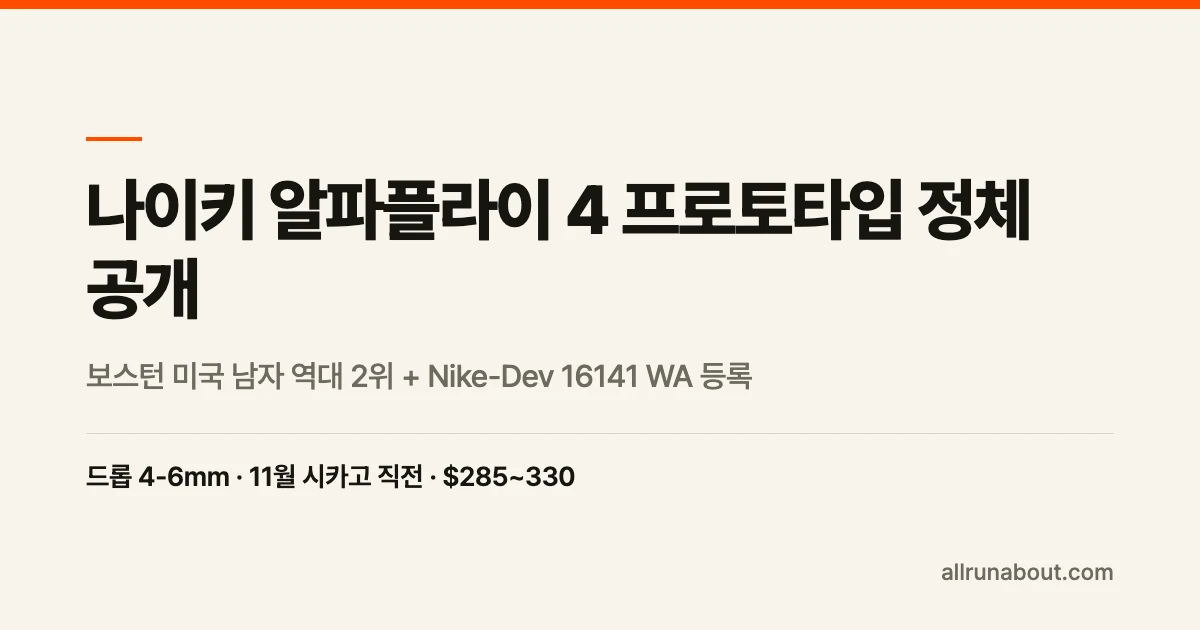
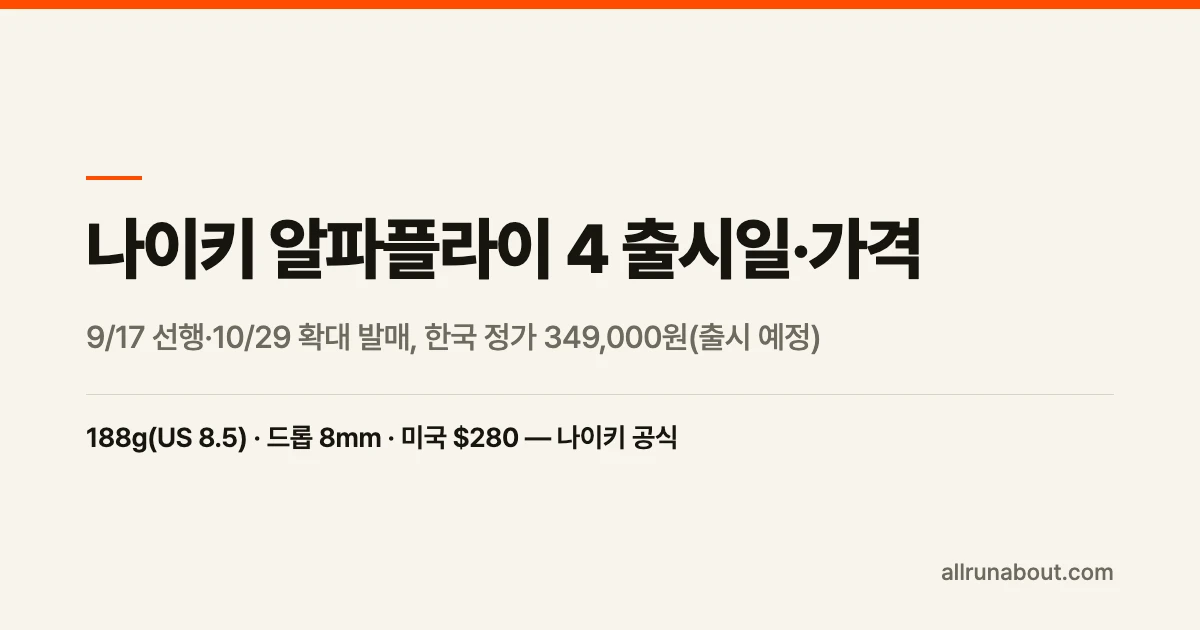
fix(followup): 알파플라이 4 한국 정가 349,000원(출시 예정) 반영 + 세션 알림 7건 처리 기록
나이키 코리아 남성 IU4686-002·여성 IZ9609-002 상품 페이지에 349,000원 '출시 예정·알림 받기'(출시일 미표시, 2026-10-23 확인).
- 프로토타입 글: seoTitle·title·description·상단 현황 박스('한국 미정' → 한국 정가 349,000원·출시 예정), 썸네일 데이터 줄을 5월 예측값에서 공식 확정값으로
- 공식 스펙 글: 한국 정가 표·요약·'아직 확정되지 않은 것'·FAQ 2개·출처 줄 — 미국과 달리 한국 정가는 알파플라이 3(339,000)보다 1만원 높다는 점 명시
- 나이키 계급도 글: 레이싱 선택지 절·표
- nike-alphafly-4.ts price 349000(공식몰 정가) · description·editorComment·detailedSpecs.price
- 프로토타입 글 표의 베이퍼플라이 4 '약 35만원' → 30.9만원(DB 309,000)
.omc/todo-estimates.md: 기한 지난 6행 ✅ + 측정 결과(GSC 4건·러닝카드 카드 판정·제부도 재확인), 후속 3행(10/29 알파플라이 출시일·11/6 가격대 추천 글 본문·11/7 제부도 최종 안내).
릴스 행은 다른 세션이 15:08 에 이미 처리

Changed region(s): [[0.0617, 0.2714, 0.8633, 0.6333], [0.0617, 0.6635, 0.5858, 0.7841], [0.0617, 0.2111, 0.1233, 0.2413]]

diff --git a/src/lib/data/blog/posts/2026-09.ts b/src/lib/data/blog/posts/2026-09.ts
@@ -1987,6 +1987,7 @@ export const posts_2026_09: BlogPost[] = [
     thumbnail: '/images/blog/nike-alphafly-4-official-specs-2026.webp',
     author: '산초 에디터',
     publishedAt: '2026-09-17',
+    updatedAt: '2026-10-23',
     category: 'news' as const,
     readingTime: 9,
     tags: [
@@ -2004,7 +2005,7 @@ export const posts_2026_09: BlogPost[] = [
   <ul>
     <li><strong>9월 17일 공식 발표 + 같은 날 한정 선행 발매, 확대 발매는 10월 29일입니다.</strong> 글로벌 정가는 나이키 제품 페이지 기준 <strong>$280</strong>으로, 알파플라이 3의 현재 정가 $295보다 오히려 $15 쌉니다</li>
     <li><strong>무게는 "188g"이지만 30g 가벼워진 게 아닙니다.</strong> 나이키가 알파플라이 4는 US 8.5로, 알파플라이 3은 US 10으로 무게를 적어둬서 <strong>두 숫자의 기준 사이즈가 다릅니다.</strong> 같은 US 10으로 맞추면 218g → 208g, 차이는 <strong>10g</strong>입니다</li>
-    <li><strong>한국 출시일과 한국 정가는 오늘 기준 아직 없습니다.</strong> 나이키 코리아 레이싱화 목록에 알파플라이 4는 올라오지 않았고, 알파플라이 3만 339,000원(현재 15% 할인 288,100원)으로 팔리고 있습니다</li>
+    <li><strong>한국 정가는 349,000원으로 공개됐고, 출시일은 아직 없습니다(2026년 10월 23일 확인).</strong> 나이키 코리아 상품 페이지에 남녀 모두 "출시 예정·알림 받기"로 올라와 있습니다. 미국 정가는 알파플라이 3보다 $15 싸지만, 한국 정가는 알파플라이 3(339,000원)보다 1만원 높습니다</li>
   </ul>
 </div>
 
@@ -2012,7 +2013,7 @@ export const posts_2026_09: BlogPost[] = [
   <span class="callout-icon">👟</span>
   <div class="callout-body">
     <p class="callout-title">한 줄 결론</p>
-    <p><strong>기다릴 값은 있지만, 오늘 당장 결정할 일은 없습니다.</strong> 한국 정가가 안 나온 상태라 "얼마를 아끼는 것인지" 계산이 불가능합니다. 가을 대회가 10월 안에 있다면 <a href="/shoes/nike-alphafly-3">알파플라이 3</a> 할인분이 현실적인 선택이고, 11월 이후 대회라면 한국 발매 공지를 기다리는 쪽이 낫습니다. 5월에 프로토타입만 보고 정리했던 <a href="/blog/2026-nike-alphafly-4-prototype">출시일·스펙 예측 글</a>은 이번 발표로 여러 항목이 뒤집혔는데, 무엇이 어떻게 틀렸는지도 아래에 그대로 적었습니다.</p>
+    <p><strong>기다릴 값은 있지만, 오늘 당장 결정할 일은 없습니다.</strong> 한국 정가는 349,000원으로 알파플라이 3 정가(339,000원)보다 1만원 높아, 미국처럼 "신형이 더 싸다"는 계산은 한국에서 성립하지 않습니다. 가을 대회가 10월 안에 있다면 <a href="/shoes/nike-alphafly-3">알파플라이 3</a> 할인분이 현실적인 선택이고, 11월 이후 대회라면 한국 발매 공지를 기다리는 쪽이 낫습니다. 5월에 프로토타입만 보고 정리했던 <a href="/blog/2026-nike-alphafly-4-prototype">출시일·스펙 예측 글</a>은 이번 발표로 여러 항목이 뒤집혔는데, 무엇이 어떻게 틀렸는지도 아래에 그대로 적었습니다.</p>
   </div>
 </div>
 
@@ -2108,12 +2109,12 @@ export const posts_2026_09: BlogPost[] = [
     <tr><th>모델</th><th>미국 정가</th><th>한국 정가</th></tr>
   </thead>
   <tbody>
-    <tr><td><strong>알파플라이 4</strong></td><td><strong>$280</strong></td><td><strong>미공개</strong></td></tr>
+    <tr><td><strong>알파플라이 4</strong></td><td><strong>$280</strong></td><td><strong>349,000원</strong> (출시 예정, 2026-10-23 확인)</td></tr>
     <tr><td><a href="/shoes/nike-alphafly-3">알파플라이 3</a></td><td>$295 (현재 할인가 $221.97)</td><td>339,000원 (현재 15% 할인 288,100원)</td></tr>
   </tbody>
 </table>
 
-<p>세대가 올라가면서 미국 정가가 $15 내려갔습니다. 슈퍼슈즈 가격이 계속 오르기만 하던 흐름을 생각하면 드문 방향입니다. 다만 <strong>이것이 한국 가격에 그대로 반영된다는 근거는 없습니다.</strong> 한국 정가는 환율·수입 구조·브랜드 정책이 따로 작용하고, 알파플라이 3만 봐도 미국 $295와 한국 339,000원이 단순 환산으로 맞아떨어지지 않습니다.</p>
+<p>세대가 올라가면서 미국 정가가 $15 내려갔습니다. 슈퍼슈즈 가격이 계속 오르기만 하던 흐름을 생각하면 드문 방향입니다. 다만 <strong>한국은 반대로 나왔습니다.</strong> 10월 23일 나이키 코리아에 공개된 한국 정가는 349,000원으로 알파플라이 3(339,000원)보다 1만원 높습니다. 한국 정가는 환율·수입 구조·브랜드 정책이 따로 작용하고, 알파플라이 3만 봐도 미국 $295와 한국 339,000원이 단순 환산으로 맞아떨어지지 않습니다.</p>
 
 <h2>5월에 우리가 예측했던 것 vs 오늘 확정된 것</h2>
 
@@ -2141,10 +2142,10 @@ export const posts_2026_09: BlogPost[] = [
 <div class="callout warning">
   <span class="callout-icon">⚠</span>
   <div class="callout-body">
-    <p class="callout-title">아직 확정되지 않은 것 (2026년 9월 17일 기준)</p>
+    <p class="callout-title">아직 확정되지 않은 것 (2026년 10월 23일 갱신)</p>
     <ul>
-      <li><strong>한국 출시일</strong> — 나이키 코리아 로드 레이싱화 목록에 알파플라이 4가 아직 없습니다. 국내 보도는 "다음 달"까지만 전하고 있어, 글로벌 확대 발매일인 10월 29일과 맞물릴 가능성이 있으나 <strong>(추정)</strong>입니다</li>
-      <li><strong>한국 정가</strong> — 공식 수치 없음. 미국 $280을 단순 환산해 계산하지 마세요</li>
+      <li><strong>한국 출시일</strong> — 나이키 코리아 상품 페이지에 "출시 예정"으로 올라왔지만 날짜는 표시되지 않았습니다. 글로벌 확대 발매일인 10월 29일과 맞물릴 가능성이 있으나 <strong>(추정)</strong>입니다</li>
+      <li><strong>한국 정가</strong> — 10월 23일 확정: 349,000원(남성 IU4686-002·여성 IZ9609-002 상품 페이지). 미국 $280 환산값과는 무관합니다</li>
       <li><strong>실측 스펙</strong> — 절단 랩 데이터 없음. 스택 39/31mm는 브랜드 경로 수치입니다</li>
       <li><strong>토박스 폭</strong> — 알파플라이 3은 실측 토박스 93.3mm(엄지 쪽 75.3mm)에 와이드 옵션이 없었습니다. 알파플라이 4의 Atomknit 어퍼가 이 폭을 바꿨는지는 실측 전까지 알 수 없어, <strong>발볼이 넓은 러너는 착화 없이 온라인 구매를 권하지 않습니다</strong></li>
     </ul>
@@ -2155,7 +2156,7 @@ export const posts_2026_09: BlogPost[] = [
 
 <h2>지금 살 신발을 고른다면</h2>
 
-<p>알파플라이 4의 한국 가격이 안 나온 지금, 비교 가능한 선택지는 이미 한국에서 팔리는 레이싱화들입니다.</p>
+<p>알파플라이 4가 한국에서 아직 출시 전인 지금(정가 349,000원 공개), 바로 살 수 있는 선택지는 이미 한국에서 팔리는 레이싱화들입니다.</p>
 
 <table>
   <thead>
@@ -2173,13 +2174,13 @@ export const posts_2026_09: BlogPost[] = [
   <h2>자주 묻는 질문</h2>
 
   <h3>Q. 알파플라이 4, 한국에서 9월 17일에 살 수 있나요?</h3>
-  <p>아닙니다. 9월 17일 선행 발매는 나이키 글로벌 사이트의 한정 수량 판매이고, 나이키 코리아 레이싱화 목록에는 오늘 기준 알파플라이 4가 올라오지 않았습니다. 국내 보도도 "다음 달"까지만 전하고 있습니다.</p>
+  <p>아닙니다. 9월 17일 선행 발매는 나이키 글로벌 사이트의 한정 수량 판매였습니다. 나이키 코리아에는 10월 23일 기준 정가 349,000원 "출시 예정"으로 올라와 있고, 출시일은 아직 표시되지 않았습니다.</p>
 
   <h3>Q. 188g이면 역대 알파플라이 중 제일 가벼운 건가요?</h3>
   <p>가장 가벼운 알파플라이가 맞지만, 188g이라는 숫자 자체를 다른 신발과 바로 비교하면 안 됩니다. 이 값은 남성 US 8.5 기준이고, 대부분의 신발 스펙은 US 9 또는 US 10으로 적혀 있습니다. 같은 US 10으로 맞추면 알파플라이 4는 208g입니다.</p>
 
   <h3>Q. 알파플라이 3을 지금 할인가에 사는 게 나을까요?</h3>
-  <p>10월 안에 대회가 있다면 그렇습니다. 알파플라이 4의 한국 정가가 안 나온 상태라 "기다려서 얼마를 더 내야 하는지"를 계산할 수 없고, 한국 발매 직후에는 사이즈·컬러가 제한되는 경우가 많습니다. 반대로 11월 이후 대회이고 최신 모델을 원한다면 기다릴 시간은 충분합니다.</p>
+  <p>10월 안에 대회가 있다면 그렇습니다. 알파플라이 4 한국 정가는 349,000원이라 알파플라이 3 할인가(9월 17일 기준 288,100원)보다 약 6만원 비싸고, 한국 발매 직후에는 사이즈·컬러가 제한되는 경우가 많습니다. 반대로 11월 이후 대회이고 최신 모델을 원한다면 기다릴 시간은 충분합니다.</p>
 
   <h3>Q. 에너지 리턴 10% 향상은 믿을 만한 수치인가요?</h3>
   <p>나이키 자체 실험실 값이고, 외부 기관이 같은 조건으로 재현한 결과는 아직 없습니다. 참고로 알파플라이 3의 외부 랩 실측 에너지 리턴은 힐 74.9% / 전족부 73.9%였는데, 나이키의 10%가 이 값을 기준으로 한 것인지는 보도자료에 적혀 있지 않습니다. 절단 실측이 공개되면 이 글을 갱신하겠습니다.</p>
@@ -2188,7 +2189,7 @@ export const posts_2026_09: BlogPost[] = [
   <p>지금은 답할 수 없습니다. 알파플라이 3은 외부 랩 실측 토박스가 가장 넓은 지점 93.3mm, 엄지 쪽 75.3mm였고 와이드 옵션이 없었습니다. 알파플라이 4는 어퍼가 Atomknit으로 바뀌었지만 폭 실측이 없어, 발볼이 넓다면 매장 착화 후 결정하는 편이 안전합니다.</p>
 </div>
 
-<p><small>출처: 나이키 뉴스룸 공식 보도자료(Nike Alphafly 4) · 나이키 제품 페이지 알파플라이 4(스타일 IU4686-002, $280·188g/US 8.5) 및 알파플라이 3($295·218g/US 10) · 나이키 코리아 로드 레이싱화 목록(알파플라이 3 339,000원, 2026-09-17 확인) · 헤럴드경제 2026-09-17 보도(나이키 브렛 스쿨미스터 부사장·에밀리 파리나 생체역학 연구원 인용) · RunRepeat 알파플라이 3 절단 랩 데이터(힐 38.1mm·전족 29.6mm·드롭 8.5mm·201g·에너지 리턴 74.9%/73.9%·토박스 93.3mm) · Marathon Handbook(미디어 브리핑 기반 스택 39/31mm·US 10 208g). 가격·출시일은 2026년 9월 17일 확인 기준이며 한국 출시 정보는 나이키 코리아 공지로 다시 확인하세요.</small></p>
+<p><small>출처: 나이키 뉴스룸 공식 보도자료(Nike Alphafly 4) · 나이키 제품 페이지 알파플라이 4(스타일 IU4686-002, $280·188g/US 8.5) 및 알파플라이 3($295·218g/US 10) · 나이키 코리아 로드 레이싱화 목록(알파플라이 3 339,000원, 2026-09-17 확인) · 헤럴드경제 2026-09-17 보도(나이키 브렛 스쿨미스터 부사장·에밀리 파리나 생체역학 연구원 인용) · RunRepeat 알파플라이 3 절단 랩 데이터(힐 38.1mm·전족 29.6mm·드롭 8.5mm·201g·에너지 리턴 74.9%/73.9%·토박스 93.3mm) · Marathon Handbook(미디어 브리핑 기반 스택 39/31mm·US 10 208g) · 나이키 코리아 알파플라이 4 남성(IU4686-002)·여성(IZ9609-002) 상품 페이지(349,000원·출시 예정, 2026-10-23 확인). 글로벌 가격·출시일은 2026년 9월 17일, 한국 정가는 10월 23일 확인 기준이며 한국 출시일은 나이키 코리아 공지로 다시 확인하세요.</small></p>
 `,
   },
   {

diff --git a/src/lib/data/blog/posts/2026-05.ts b/src/lib/data/blog/posts/2026-05.ts
@@ -6953,13 +6953,13 @@ export const posts_2026_05: BlogPost[] = [
   {
     id: '2026-nike-alphafly-4-prototype',
     slug: '2026-nike-alphafly-4-prototype',
-    seoTitle: '나이키 알파플라이 4 출시일·가격 — 10월 29일 확대 발매, 한국 미정',
-    title: '나이키 알파플라이 4 출시일·가격 | 9/17 선행·10/29 확대 발매, 한국은 미정 — 프로토타입 예측과의 대조',
-    description: '알파플라이 4는 2026년 9월 17일 공식 발표와 함께 한정 선행 발매됐고 확대 발매는 10월 29일, 글로벌 정가는 $280입니다. 한국은 10월 6일 기준 나이키 코리아에 아직 없습니다. 나이키는 9월 30일 알파플라이 4·에이펙스(2027년 1월)·스우시플라이(2027년 2월 중국·봄 글로벌)를 "위계가 아닌 선택지"로 묶어 발표했습니다. 아래는 5월 프로토타입 단계의 예측이 공식 발표와 어떻게 갈렸는지의 기록이며, 확정 스펙은 별도 글로 안내합니다.',
+    seoTitle: '나이키 알파플라이 4 출시일·가격 — 한국 정가 349,000원 공개, 10월 29일 확대 발매',
+    title: '나이키 알파플라이 4 출시일·가격 | 9/17 선행·10/29 확대 발매, 한국 정가 349,000원(출시 예정) — 프로토타입 예측과의 대조',
+    description: '알파플라이 4는 2026년 9월 17일 공식 발표와 함께 한정 선행 발매됐고 확대 발매는 10월 29일, 글로벌 정가는 $280입니다. 한국은 10월 23일 나이키 코리아에 정가 349,000원 "출시 예정"으로 올라왔고 출시일은 아직 표시되지 않았습니다. 나이키는 9월 30일 알파플라이 4·에이펙스(2027년 1월)·스우시플라이(2027년 2월 중국·봄 글로벌)를 "위계가 아닌 선택지"로 묶어 발표했습니다. 아래는 5월 프로토타입 단계의 예측이 공식 발표와 어떻게 갈렸는지의 기록이며, 확정 스펙은 별도 글로 안내합니다.',
     thumbnail: '/images/blog/2026-nike-alphafly-4-prototype.webp',
     author: '산초 에디터',
     publishedAt: '2026-05-12',
-    updatedAt: '2026-10-06',
+    updatedAt: '2026-10-23',
     category: 'news' as const,
     readingTime: 8,
     tags: ['나이키', 'Nike', 'AlphaFly 4', '알파플라이 4', '슈퍼슈즈', '카본화', '보스턴 마라톤', 'ZoomX', '러닝화 발매'],
@@ -6967,8 +6967,8 @@ export const posts_2026_05: BlogPost[] = [
 <div class="callout info">
   <span class="callout-icon">📌</span>
   <div class="callout-body">
-    <p class="callout-title">지금 기준 정리 (2026년 10월 6일)</p>
-    <p><strong>알파플라이 4는 9월 17일 공식 발표와 함께 한정 선행 발매됐고, 확대 발매는 10월 29일, 글로벌 정가는 $280입니다.</strong> 한국은 10월 6일 나이키 코리아 검색에 아직 올라오지 않았습니다(같은 검색에서 알파플라이 3은 판매 중). 나이키는 9월 30일 알파플라이 4·에이펙스(2027년 1월)·스우시플라이(2027년 2월 중국·봄 글로벌)를 "레이스 데이 시스템"으로 묶어 발표하면서, 레이싱화를 <strong>위계가 아니라 선택지</strong>로 설계했다고 밝혔습니다. 확정 스펙은 <a href="/blog/nike-alphafly-4-official-specs-2026">알파플라이 4 공식 스펙 정리</a>에, 에이펙스는 <a href="/blog/nike-apex-announcement-super-shoe-baseline-2026">에이펙스 공개 글</a>에 있습니다. 아래는 5월 프로토타입 단계에서 쓴 예측 기록입니다.</p>
+    <p class="callout-title">지금 기준 정리 (2026년 10월 23일)</p>
+    <p><strong>알파플라이 4는 9월 17일 공식 발표와 함께 한정 선행 발매됐고, 확대 발매는 10월 29일, 글로벌 정가는 $280입니다.</strong> 한국은 10월 23일 나이키 코리아에 남녀 모두 <strong>정가 349,000원 "출시 예정"</strong>으로 올라왔고 출시일은 아직 표시되지 않았습니다. 미국과 달리 한국 정가는 알파플라이 3(339,000원)보다 1만원 높습니다. 나이키는 9월 30일 알파플라이 4·에이펙스(2027년 1월)·스우시플라이(2027년 2월 중국·봄 글로벌)를 "레이스 데이 시스템"으로 묶어 발표하면서, 레이싱화를 <strong>위계가 아니라 선택지</strong>로 설계했다고 밝혔습니다. 확정 스펙은 <a href="/blog/nike-alphafly-4-official-specs-2026">알파플라이 4 공식 스펙 정리</a>에, 에이펙스는 <a href="/blog/nike-apex-announcement-super-shoe-baseline-2026">에이펙스 공개 글</a>에 있습니다. 아래는 5월 프로토타입 단계에서 쓴 예측 기록입니다.</p>
   </div>
 </div>
 
@@ -7068,7 +7068,7 @@ export const posts_2026_05: BlogPost[] = [
       <td><a href="/shoes/nike-vaporfly-4">나이키 베이퍼플라이 4</a></td>
       <td>166g</td>
       <td>2025.3</td>
-      <td>약 35만원</td>
+      <td>30.9만원</td>
       <td>대중적 PB 도전 표준</td>
     </tr>
     <tr>

diff --git a/src/lib/data/blog/posts/2026-06.ts b/src/lib/data/blog/posts/2026-06.ts
@@ -3797,7 +3797,7 @@ export const posts_2026_06: BlogPost[] = [
     thumbnail: '/images/blog/nike-lineup-tier-2026.webp',
     author: '산초 에디터',
     publishedAt: '2026-06-13',
-    updatedAt: '2026-10-06',
+    updatedAt: '2026-10-23',
     category: 'guide' as const,
     readingTime: 12,
     tags: ['나이키 러닝화', '나이키 계급도', '러닝화 라인업', '러닝화 등급', '페가수스', '보메로', '베이퍼플라이', '알파플라이', 'ZoomX', '나이키 토박스'],
@@ -3895,14 +3895,14 @@ export const posts_2026_06: BlogPost[] = [
 
 <h2>3-1. 9월 30일, 나이키가 레이싱화를 다시 짰다 — "위계"가 아니라 "선택지"</h2>
 
-<p>나이키는 2026년 9월 30일 레이싱화 세 켤레를 한 번에 발표하면서 <strong>"레이싱화를 위계로 정리하는 대신 선택지로 설계했다"</strong>고 밝혔습니다(보도자료 원문 "Rather than organizing racing footwear as a hierarchy, Nike designed its race-day lineup as a choice"). 비싼 쪽이 위가 아니라, <strong>어떤 레이스를 뛰는 러너인지에 따라 고르라</strong>는 뜻입니다. 알파플라이 4는 2026년 10월 6일 나이키 코리아 검색에 아직 없고, 에이펙스·스우시플라이는 글로벌 출시 전입니다.</p>
+<p>나이키는 2026년 9월 30일 레이싱화 세 켤레를 한 번에 발표하면서 <strong>"레이싱화를 위계로 정리하는 대신 선택지로 설계했다"</strong>고 밝혔습니다(보도자료 원문 "Rather than organizing racing footwear as a hierarchy, Nike designed its race-day lineup as a choice"). 비싼 쪽이 위가 아니라, <strong>어떤 레이스를 뛰는 러너인지에 따라 고르라</strong>는 뜻입니다. 알파플라이 4는 2026년 10월 23일 나이키 코리아에 정가 349,000원 "출시 예정"으로 올라왔고(출시일 미표시), 에이펙스·스우시플라이는 글로벌 출시 전입니다.</p>
 
 <div class="table-wrap">
 <table>
   <thead><tr><th>신발</th><th>나이키가 밝힌 대상</th><th>공식 구성</th><th>출시</th></tr></thead>
   <tbody>
     <tr><td><strong>스우시플라이</strong></td><td>첫 레이스를 준비하거나 새 목표에 도전하는 러너</td><td>SkyX 초임계 폼 + 카본 Flyplate. 가격은 "레이싱 라인보다 접근하기 쉬운 가격"이라고만 밝힘</td><td>2027년 2월 중국 → 봄 글로벌</td></tr>
-    <tr><td><a href="/blog/nike-alphafly-4-official-specs-2026"><strong>알파플라이 4</strong></a></td><td>거리 내내 반응성·편안함·안정성·효율의 균형을 원하는 러너</td><td>글로벌 정가 $280. 무게·스택을 읽는 법은 공식 스펙 글 참고</td><td>9월 17일 한정 선행, 10월 29일 확대(나이키 발표상 "10월")</td></tr>
+    <tr><td><a href="/blog/nike-alphafly-4-official-specs-2026"><strong>알파플라이 4</strong></a></td><td>거리 내내 반응성·편안함·안정성·효율의 균형을 원하는 러너</td><td>한국 정가 349,000원(출시 예정, 10/23 확인)·글로벌 $280. 무게·스택을 읽는 법은 공식 스펙 글 참고</td><td>9월 17일 한정 선행, 10월 29일 확대(나이키 발표상 "10월")</td></tr>
     <tr><td><a href="/blog/nike-apex-announcement-super-shoe-baseline-2026"><strong>에이펙스</strong></a></td><td>마라톤 성능의 끝을 쫓는 러너</td><td>에어 줌 유닛 4개를 2개씩 겹쳐 쌓은 구조, 힐·전족부 40mm·드롭 0mm. 가격·무게 미공개</td><td>2027년 1월</td></tr>
   </tbody>
 </table>

diff --git a/src/lib/data/shoes/nike/nike-alphafly-4.ts b/src/lib/data/shoes/nike/nike-alphafly-4.ts
@@ -9,11 +9,13 @@ export const shoe: Shoe = {
   images: ['/images/shoes/nike/alphafly4/side.webp'],
   category: '레이싱',
   rating: 0,
+  // 2026-10-23 나이키 코리아 남성 IU4686-002·여성 IZ9609-002 상품 페이지 정가("출시 예정", 출시일 미표시)
+  price: 349000,
   status: 'new',
   noindex: true,
-  description: 'ZoomX LT 폼, 업데이트된 Air Zoom 유닛, 카본 Flyplate를 결합한 나이키의 마라톤 레이싱화. 한국 정가와 독립 랩 데이터는 아직 확인되지 않았습니다.',
+  description: 'ZoomX LT 폼, 업데이트된 Air Zoom 유닛, 카본 Flyplate를 결합한 나이키의 마라톤 레이싱화. 한국 정가는 349,000원(2026-10-23 나이키 코리아 "출시 예정")이며, 한국 출시일과 독립 랩 데이터는 아직 없습니다.',
   oneliner: '공식 발표 기준 전작보다 5% 가벼워지고 에너지 반환력 10% 향상',
-  editorComment: '나이키 공식 발표 기준 알파플라이 4는 265mm 기준 전작보다 5% 가벼워졌고, 에너지 반환력은 10% 향상됐습니다. Atomknit 갑피와 ZoomX LT 폼, 개선된 Air Zoom 유닛 및 카본 Flyplate를 사용하며, 제품 페이지는 남성 US 8.5 기준 188g과 8mm 드롭을 표기합니다. 다만 한국 공식 정가·출시 상태와 RunRepeat 독립 랩 측정은 아직 확인되지 않아 가격·토박스·충격흡수 수치는 비워 두었습니다.',
+  editorComment: '나이키 공식 발표 기준 알파플라이 4는 265mm 기준 전작보다 5% 가벼워졌고, 에너지 반환력은 10% 향상됐습니다. Atomknit 갑피와 ZoomX LT 폼, 개선된 Air Zoom 유닛 및 카본 Flyplate를 사용하며, 제품 페이지는 남성 US 8.5 기준 188g과 8mm 드롭을 표기합니다. 한국 정가는 349,000원으로 공개됐지만(2026-10-23 나이키 코리아 "출시 예정", 출시일 미표시) RunRepeat 독립 랩 측정은 아직 없어 토박스·충격흡수 수치는 비워 두었습니다.',
   tags: ['레이싱', '마라톤', '카본 플레이트', '슈퍼슈즈'],
   detailedSpecs: {
     weight: '약 188g (남성 US 8.5, 나이키 공식)',
@@ -21,7 +23,7 @@ export const shoe: Shoe = {
     midsole: 'ZoomX + ZoomX LT',
     plate: '카본 파이버 Flyplate',
     upper: 'Atomknit',
-    price: '한국 공식 정가 미확인 (2026-09-28 기준)',
+    price: '₩349,000 (나이키 코리아 공식, 2026-10-23 확인 — 남·여 "출시 예정", 출시일 미표시) · 미국 $280 · 알파플라이 3 한국 정가 339,000원',
   },
   similarShoes: ['nike-alphafly-3', 'adidas-adios-pro-5'],
 };

diff --git a/scripts/thumbnail/copy.ts b/scripts/thumbnail/copy.ts
@@ -492,10 +492,10 @@ export const OVERRIDES: Record<string, Partial<ThumbCopy>> = {
   'nike-pegasus-42-review': {
     data: '286g · 힐 스택 36mm · SA 131',
   },
-  // 출처: posts/2026-05.ts 본문 — 드롭 4-6mm(line 7003), 2026년 11월 시카고 마라톤 직전 예상(line 7009),
-  // 글로벌 정가 $285~330 예상(line 7010).
+  // 2026-10-23: 5월 예측값(드롭 4-6mm·$285~330)을 확정값으로 교체. 출처 nike-alphafly-4.ts —
+  // 188g·드롭 8mm(남성 US 8.5, 나이키 공식)·미국 $280·한국 349,000원(나이키 코리아 '출시 예정', 10/23 확인)
   '2026-nike-alphafly-4-prototype': {
-    data: '드롭 4-6mm · 11월 시카고 직전 · $285~330',
+    data: '188g(US 8.5) · 드롭 8mm · 미국 $280 — 나이키 공식',
   },
   // '2026-mudo-run-gyeongju' 는 의도적으로 미등록 — 본문이 "종목·참가비·접수 일정·접수처
   // 모두 미발표"라고 명시한다(posts/2026-07.ts line 2603). 검증 가능한 수치가 없어 data 를
